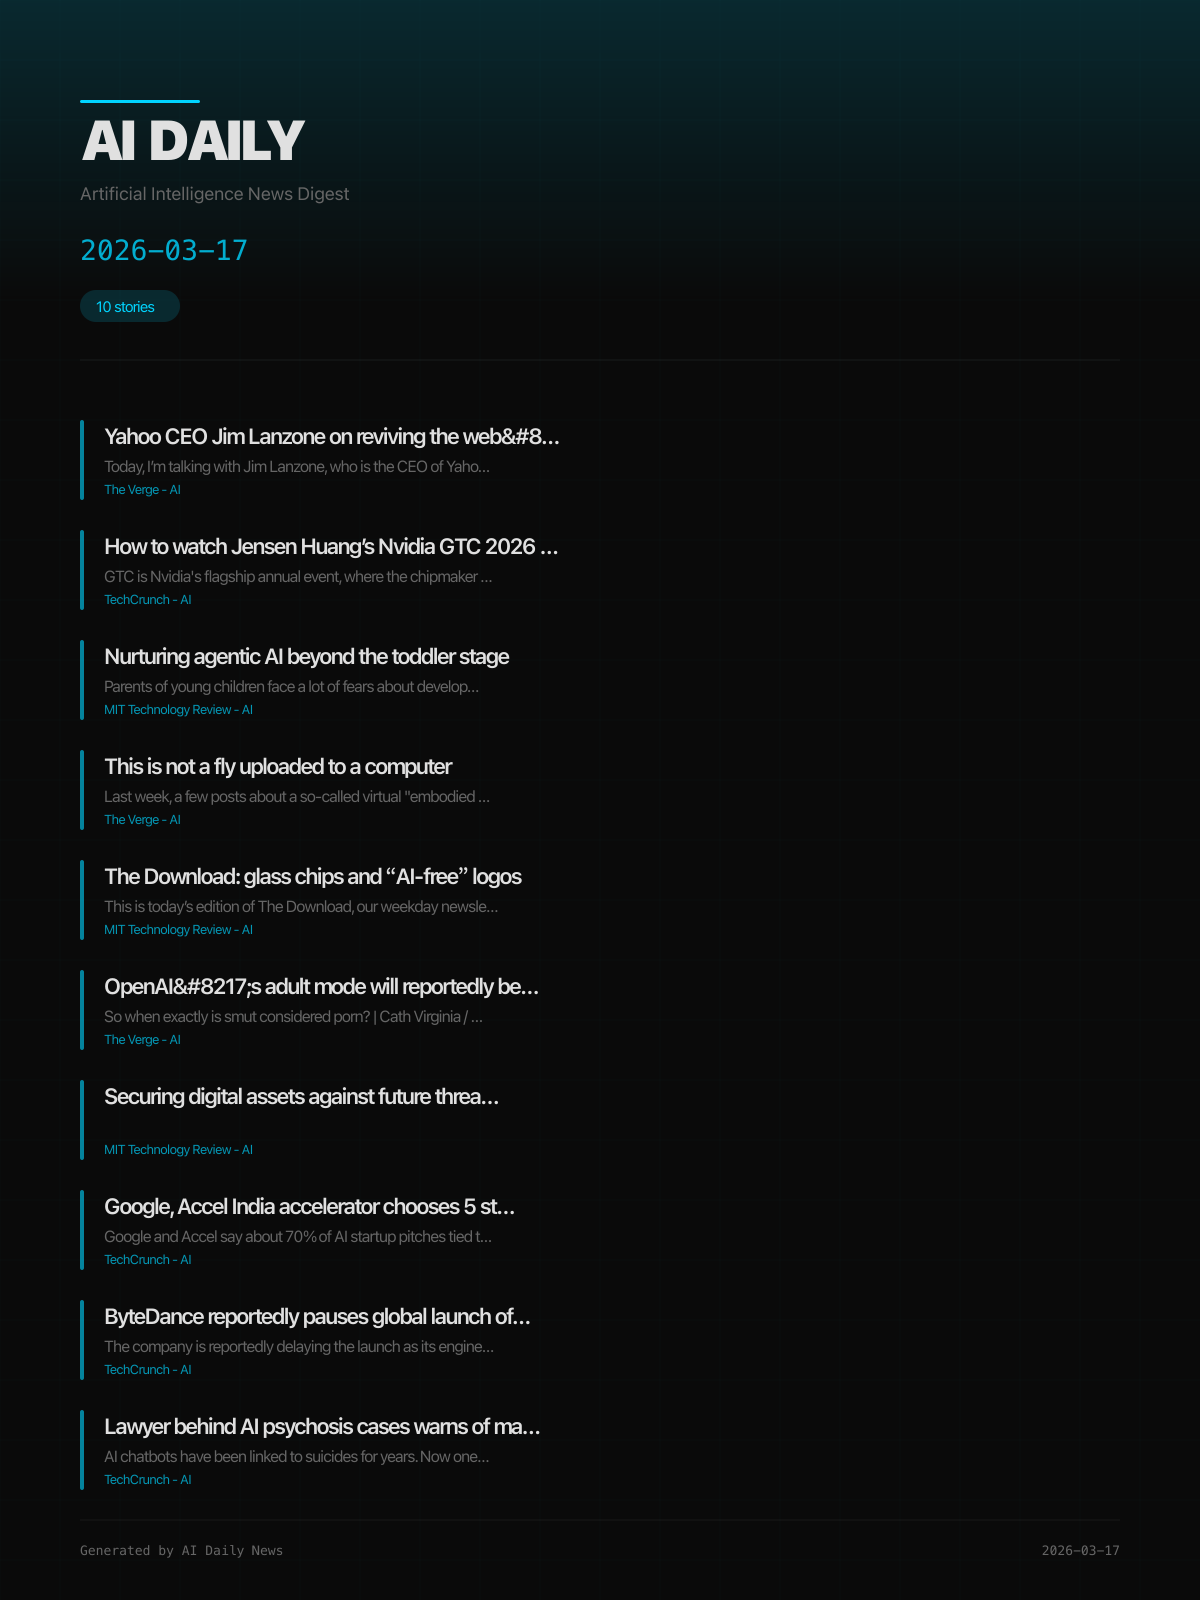
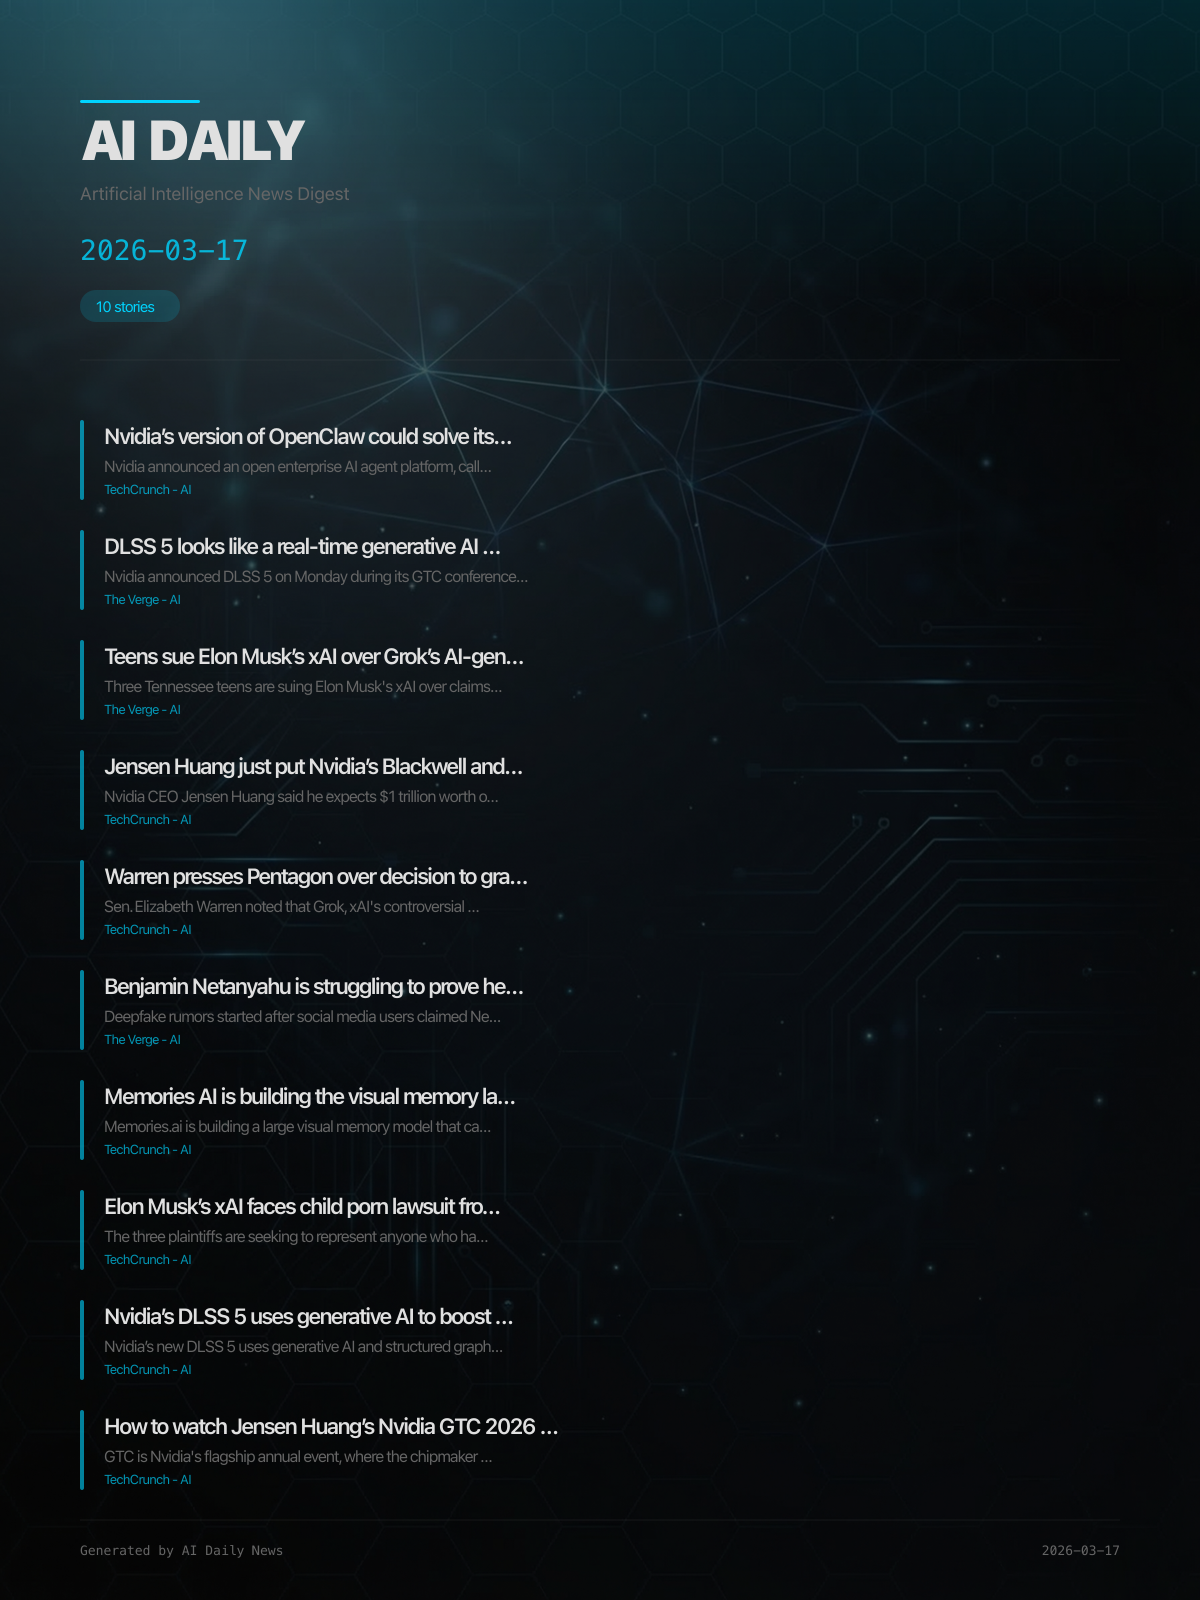
feat: composite bg cover image into share images
- Add generated tech-style background (assets/bg-cover.png)
- Modify generate.js to use Sharp composite: bg image + SVG overlay
- Semi-transparent dark overlay ensures text readability
- Remove old grid line decoration (background provides visual texture)

diff --git a/src/image/generate.js b/src/image/generate.js
@@ -1,10 +1,14 @@
 /**
  * Generate minimalist tech-style share images using Sharp (SVG → PNG).
- * No external image API required.
+ * Uses a background cover image composited with SVG text overlay.
  */
 import sharp from 'sharp';
-import { resolve } from 'node:path';
+import { resolve, dirname } from 'node:path';
+import { fileURLToPath } from 'node:url';
 import { getLogger } from '../logger.js';
+
+const __dirname = dirname(fileURLToPath(import.meta.url));
+const BG_IMAGE_PATH = resolve(__dirname, '../../assets/bg-cover.png');
 
 const THEMES = {
   en: { badge: 'AI DAILY', tagline: 'Artificial Intelligence News Digest' },
@@ -47,15 +51,6 @@ export async function generateShareImage(digest, imageConfig, outputPath) {
       </g>`;
   }).join('\n');
 
-  // Grid decoration
-  const gridLines = [];
-  for (let x = 0; x < width; x += 60) {
-    gridLines.push(`<line x1="${x}" y1="0" x2="${x}" y2="${height}" stroke="${accentColor}" stroke-width="0.3" opacity="0.05"/>`);
-  }
-  for (let y = 0; y < height; y += 60) {
-    gridLines.push(`<line x1="0" y1="${y}" x2="${width}" y2="${y}" stroke="${accentColor}" stroke-width="0.3" opacity="0.05"/>`);
-  }
-
   const svg = `<?xml version="1.0" encoding="UTF-8"?>
 <svg width="${width}" height="${height}" xmlns="http://www.w3.org/2000/svg">
   <defs>
@@ -65,11 +60,8 @@ export async function generateShareImage(digest, imageConfig, outputPath) {
     </linearGradient>
   </defs>
 
-  <!-- Background -->
-  <rect width="${width}" height="${height}" fill="${backgroundColor}"/>
-
-  <!-- Grid overlay -->
-  ${gridLines.join('\n  ')}
+  <!-- Semi-transparent dark overlay for text readability -->
+  <rect width="${width}" height="${height}" fill="${backgroundColor}" opacity="0.55"/>
 
   <!-- Top glow -->
   <rect width="${width}" height="300" fill="url(#topGlow)"/>
@@ -102,7 +94,15 @@ export async function generateShareImage(digest, imageConfig, outputPath) {
   <text x="${width - 80}" y="${height - 45}" font-family="'SF Mono', 'Fira Code', monospace" font-size="13" fill="${secondaryColor}" text-anchor="end">${escapeXml(date)}</text>
 </svg>`;
 
-  await sharp(Buffer.from(svg)).png().toFile(outputPath);
+  // Composite: bg image → dark overlay + text (SVG)
+  const bgImage = sharp(BG_IMAGE_PATH).resize(width, height, { fit: 'cover' });
+  const svgOverlay = Buffer.from(svg);
+
+  await bgImage
+    .composite([{ input: svgOverlay, top: 0, left: 0 }])
+    .png()
+    .toFile(outputPath);
+
   log.info(`Share image generated: ${outputPath}`);
 }
 

diff --git a/output/2026-03-17/digest-en.md b/output/2026-03-17/digest-en.md
@@ -3,43 +3,64 @@
 
 ## News
 
-### Yahoo CEO Jim Lanzone on reviving the web&#8217;s homepage
-Today, I’m talking with Jim Lanzone, who is the CEO of Yahoo. It’s basically impossible to sum up the Yahoo story, but the short version of it is that a long time ago Yahoo paid Google to run the sear
-🔗 [The Verge - AI](https://www.theverge.com/podcast/895221/yahoo-jim-lanzone-scout-ai-sports-finance-open-web)
+### Nvidia’s version of OpenClaw could solve its biggest problem: security
+Nvidia announced an open enterprise AI agent platform, called NemoClaw, that is built off of viral OpenClaw.
+🔗 [TechCrunch - AI](https://techcrunch.com/2026/03/16/nvidias-version-of-openclaw-could-solve-its-biggest-problem-security/)
+
+### DLSS 5 looks like a real-time generative AI filter for video games
+Nvidia announced DLSS 5 on Monday during its GTC conference, and based on early reactions, it's going to be a divisive update, with some reactions calling it "slop" that unacceptably alters artistic i
+🔗 [The Verge - AI](https://www.theverge.com/news/895472/nvidia-dlss5-generative-ai-pc-graphics)
+
+### Teens sue Elon Musk’s xAI over Grok’s AI-generated CSAM
+Three Tennessee teens are suing Elon Musk's xAI over claims that the company's Grok AI chatbot generated sexualized images and videos of themselves as minors, as reported earlier by The Washington Pos
+🔗 [The Verge - AI](https://www.theverge.com/ai-artificial-intelligence/895639/xai-grok-teens-lawsuit-grok-ai-elon-musk)
+
+### Jensen Huang just put Nvidia’s Blackwell and Vera Rubin sales projections into the $1 trillion stratosphere
+Nvidia CEO Jensen Huang said he expects $1 trillion worth of orders for the chips.
+🔗 [TechCrunch - AI](https://techcrunch.com/2026/03/16/jensen-just-put-nvidias-blackwell-and-vera-rubin-sales-projections-into-the-1-trillion-stratosphere/)
+
+### Warren presses Pentagon over decision to grant xAI access to classified networks
+Sen. Elizabeth Warren noted that Grok, xAI's controversial chatbot, has created harmful outputs for users and poses a potential national security risk.
+🔗 [TechCrunch - AI](https://techcrunch.com/2026/03/16/warren-presses-pentagon-over-decision-to-grant-xai-access-to-classified-networks/)
+
+### Benjamin Netanyahu is struggling to prove he&#8217;s not an AI clone
+Deepfake rumors started after social media users claimed Netanyahu is depicted in this video with six fingers on his right hand (seen left). | Image: Israel Government Press Office	  Social media plat
+🔗 [The Verge - AI](https://www.theverge.com/tech/895453/ai-deepfake-netanyahu-claims-conspiracy)
+
+### Memories AI is building the visual memory layer for wearables and robotics
+Memories.ai is building a large visual memory model that can index and retrieve video-recorded memories for physical AI.
+🔗 [TechCrunch - AI](https://techcrunch.com/2026/03/16/memories-ai-is-building-the-visual-memory-layer-for-wearables-and-robotics/)
+
+### Elon Musk’s xAI faces child porn lawsuit from minors Grok allegedly undressed
+The three plaintiffs are seeking to represent anyone who had real images of them as a minor altered into sexual content by Grok.
+🔗 [TechCrunch - AI](https://techcrunch.com/2026/03/16/elon-musks-xai-faces-child-porn-lawsuit-from-minors-grok-allegedly-undressed/)
+
+### Nvidia’s DLSS 5 uses generative AI to boost photorealism in video games, with ambitions beyond gaming
+Nvidia’s new DLSS 5 uses generative AI and structured graphics data to make video games more realistic. CEO Jensen Huang says the approach could eventually spread to other industries.
+🔗 [TechCrunch - AI](https://techcrunch.com/2026/03/16/nvidias-dlss-5-uses-generative-ai-to-boost-photo-realism-in-video-games-with-ambitions-beyond-gaming/)
 
 ### How to watch Jensen Huang’s Nvidia GTC 2026 keynote — and what to expect
 GTC is Nvidia's flagship annual event, where the chipmaker typically announces new products, partnerships, and its vision for the future of computing. Huang's keynote will focus on Nvidia's role in th
 🔗 [TechCrunch - AI](https://techcrunch.com/2026/03/16/nvidia-gtc-how-to-watch-jensen-huang-2026-keynote/)
 
-### This is not a fly uploaded to a computer
-Last week, a few posts about a so-called virtual "embodied fly" tore through X, boosted by AI hype accounts and excited commenters who didn't seem to understand what it was they were excited about. Th
-🔗 [The Verge - AI](https://www.theverge.com/ai-artificial-intelligence/894587/fly-brain-computer-upload)
+### Another deep tech chip startup becomes a unicorn: Frore hits $1.64B
+At Nvidia CEO Jensen Huang's urging, Frore developed liquid-cooling tech for chips. That shift helped it raise $143 million.
+🔗 [TechCrunch - AI](https://techcrunch.com/2026/03/16/another-deep-tech-chip-startup-becomes-a-unicorn-frore-hits-1-64b/)
 
-### OpenAI&#8217;s adult mode will reportedly be smutty, not pornographic
-So when exactly is smut considered porn? | Cath Virginia / The Verge | Photos from Getty Images	  OpenAI's delayed "adult mode" for ChatGPT is expected to support saucy text conversations at launch, b
-🔗 [The Verge - AI](https://www.theverge.com/ai-artificial-intelligence/895130/openai-chatgpt-adult-mode-text-smut-written-erotica)
+### Fuse raises $25M  to disrupt aging loan origination systems used by US credit unions
+The startup also announced a $5 million "rescue fund" to help credit unions ditch legacy software for its AI-native platform.
+🔗 [TechCrunch - AI](https://techcrunch.com/2026/03/16/fuse-raises-25m-to-disrupt-aging-loan-origination-systems-used-by-u-s-credit-unions/)
 
-### Google, Accel India accelerator chooses 5 startups and none are ‘AI wrappers’
-Google and Accel say about 70% of AI startup pitches tied to India were "wrappers" as they reviewed more than 4,000 applications for their Atoms cohort.
-🔗 [TechCrunch - AI](https://techcrunch.com/2026/03/15/google-and-accel-cut-through-wrappers-in-4000-ai-startup-pitches-to-pick-five-tied-to-india/)
+### The dictionary sues OpenAI
+Encyclopedia Britannica and Merriam-Webster say that OpenAI violated the copyright of almost 100,000 articles by using them for LLM training.
+🔗 [TechCrunch - AI](https://techcrunch.com/2026/03/16/merriam-webster-openai-encyclopedia-brittanica-lawsuit/)
 
-### ByteDance reportedly pauses global launch of its Seedance 2.0 video generator
-The company is reportedly delaying the launch as its engineers and lawyers work to avert further legal issues.
-🔗 [TechCrunch - AI](https://techcrunch.com/2026/03/15/bytedance-reportedly-pauses-global-launch-of-its-seedance-2-0-video-generator/)
-
-### Lawyer behind AI psychosis cases warns of mass casualty risks
-AI chatbots have been linked to suicides for years. Now one lawyer says they are showing up in mass casualty cases too, and the technology is moving faster than the safeguards.
-🔗 [TechCrunch - AI](https://techcrunch.com/2026/03/15/lawyer-behind-ai-psychosis-cases-warns-of-mass-casualty-risks/)
+### Encyclopedia Britannica is suing OpenAI for allegedly ‘memorizing’ its content with ChatGPT
+On Friday, Encyclopedia Britannica and dictionary publisher Merriam-Webster filed a lawsuit against OpenAI alleging that it used their copyrighted content to train its AI, then generated responses tha
+🔗 [The Verge - AI](https://www.theverge.com/ai-artificial-intelligence/895372/encyclopedia-britannica-openai-lawsuit)
 
 ## Research
 
-### Nurturing agentic AI beyond the toddler stage
-Parents of young children face a lot of fears about developmental milestones, from infancy through adulthood. The number of months it takes a baby to learn to talk or walk is often used as a benchmark
-🔗 [MIT Technology Review - AI](https://www.technologyreview.com/2026/03/16/1133979/nurturing-agentic-ai-beyond-the-toddler-stage/)
-
-### The Download: glass chips and “AI-free” logos
-This is today’s edition of The Download, our weekday newsletter that provides a daily dose of what’s going on in the world of technology. Future AI chips could be built on glass  Human-made glass is t
-🔗 [MIT Technology Review - AI](https://www.technologyreview.com/2026/03/16/1134301/the-download-glass-ai-chips-ai-free-logo/)
-
-### Securing digital assets against future threats
-🔗 [MIT Technology Review - AI](https://www.technologyreview.com/2026/03/16/1134287/securing-digital-assets-against-future-threats/)
+### Where OpenAI’s technology could show up in Iran
+This story originally appeared in The Algorithm, our weekly newsletter on AI. To get stories like this in your inbox first, sign up here. It’s been just over two weeks since OpenAI reached a controver
+🔗 [MIT Technology Review - AI](https://www.technologyreview.com/2026/03/16/1134315/where-openais-technology-could-show-up-in-iran/)

diff --git a/output/2026-03-17/digest-zh.md b/output/2026-03-17/digest-zh.md
@@ -3,6 +3,14 @@
 
 ## 新闻
 
+### OpenClaw中国行北京站落幕，3万人围观养虾，本周12城活动继续
+点击查看原文>
+🔗 [AI 前线 (InfoQ)](https://www.infoq.cn/article/DqE30rlz0ZXXrBJjjIMf?utm_source=rss&utm_medium=article)
+
+### 黄仁勋 GTC 2026 演讲实录：所有SaaS公司都将消失；Token 成本全球最低；2027 营收将到 1 万亿；Feynman 架构已在路上；
+点击查看原文>
+🔗 [AI 前线 (InfoQ)](https://www.infoq.cn/article/MSc2PuVcBuYd1afpAGC1?utm_source=rss&utm_medium=article)
+
 ### Elastic 9.3 升级！向量搜索快 12 倍
 点击查看原文>
 🔗 [AI 前线 (InfoQ)](https://www.infoq.cn/article/bDuSyAJix8z1Aq0ff0lZ?utm_source=rss&utm_medium=article)
@@ -54,11 +62,3 @@
 ### 字节暂停Seedance2.0全球发布，回应武汉全员被裁；曝梁文锋将携DeepSeek V4撞上姚顺雨；央视315曝给AI大模型投毒已成产业链 | AI周报
 点击查看原文>
 🔗 [AI 前线 (InfoQ)](https://www.infoq.cn/article/5ZXUYlk07YF3WGSEG5uC?utm_source=rss&utm_medium=article)
-
-### 从分到秒：Uber通过共识架构提升MySQL集群的正常运行时间
-点击查看原文>
-🔗 [AI 前线 (InfoQ)](https://www.infoq.cn/article/NjIx3ifpa6w5cF4eDdNP?utm_source=rss&utm_medium=article)
-
-### Webpack发布2026路线图：原生CSS支持、通用目标及向6.0版本的演进路径
-点击查看原文>
-🔗 [AI 前线 (InfoQ)](https://www.infoq.cn/article/ke9rP6GV4bm5ZNcuprsB?utm_source=rss&utm_medium=article)
